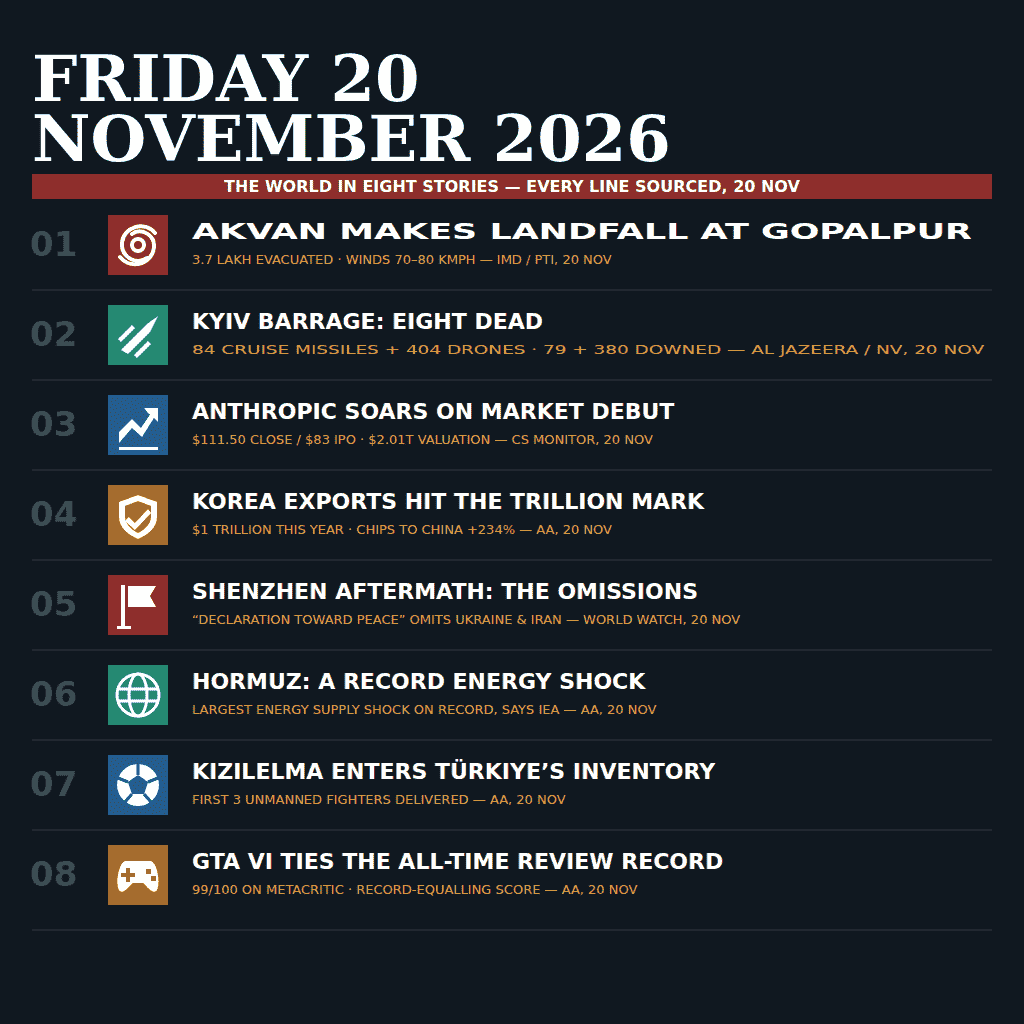
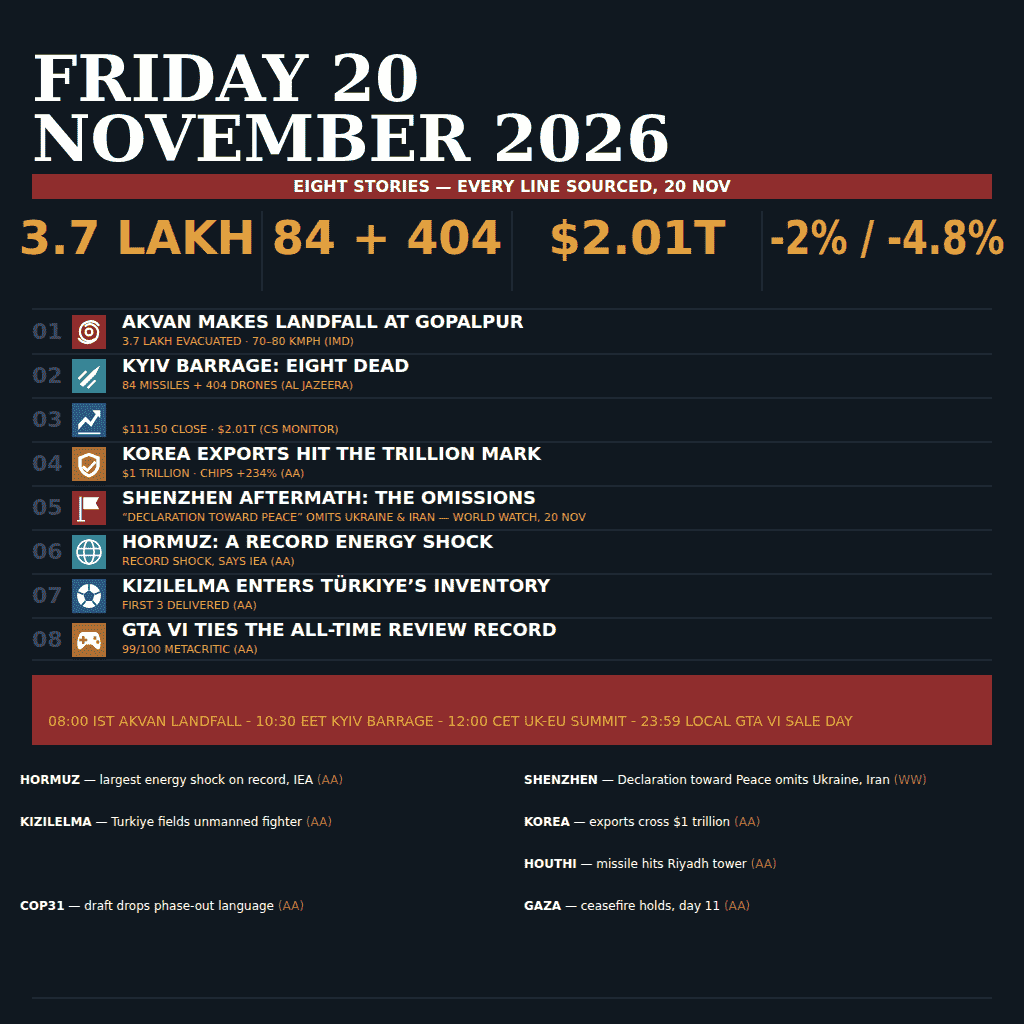
Breadth poster: stat row, timeline, briefs, 32.6KB

Changed region(s): [[0.0, 0.1562, 1.0, 0.9062], [0.6875, 0.5938, 0.7188, 0.625], [0.6562, 0.3125, 0.6875, 0.3438]]

diff --git a/poster.html b/poster.html
@@ -11,92 +11,127 @@
 <text x="32" y="161" style="font-family:Georgia,'Times New Roman',serif">NOVEMBER 2026</text>
 </g>
 <rect x="32" y="174" width="960" height="25" fill="#8f2d2d"/>
-<text x="512" y="192" text-anchor="middle" fill="#fff" font-size="16" font-weight="bold">THE WORLD IN EIGHT STORIES — EVERY LINE SOURCED, 20 NOV</text>
-<!-- 01 / 200–290 -->
-<text class="num" x="30" y="256">01</text>
+<text x="512" y="192" text-anchor="middle" fill="#fff" font-size="16" font-weight="bold">EIGHT STORIES — EVERY LINE SOURCED, 20 NOV</text>
+<rect y="200" width="1024" height="100" fill="#101820"/>
+<path d="M262 211V291M512 211V291M762 211V291" fill="none" stroke="#2a3844"/>
+<g fill="#e6a23c" font-size="46" font-weight="700" text-anchor="middle">
+<text x="137" y="254">3.7 LAKH</text>
+<text x="387" y="254">84 + 404</text>
+<text x="637" y="254">$2.01T</text>
+<text x="887" y="254" textLength="235" lengthAdjust="spacingAndGlyphs">-2% / -4.8%</text>
+</g>
+<g fill="#ffffff" font-size="12" text-anchor="middle">
+
+
+
+
+</g>
+<path class="rule" d="M32 309H992"/>
+<text x="32" y="339" fill="#3a4a56" font-size="22" font-weight="700">01</text>
+<g transform="translate(72 315) scale(.5666666667) translate(-108 -215)">
 <rect x="108" y="215" width="60" height="60" fill="#8f2d2d"/>
 <g fill="none" stroke="#fff" stroke-width="4" stroke-linecap="round">
 <path d="M155 233C145 220 123 227 122 243C121 256 135 266 147 258"/>
 <path d="M120 257C132 271 153 263 154 247C155 235 141 227 132 234"/>
 <circle cx="138" cy="245" r="6"/>
 </g>
-<text class="head" x="192" y="239" textLength="780" lengthAdjust="spacingAndGlyphs">AKVAN MAKES LANDFALL AT GOPALPUR</text>
-<text class="stat" x="192" y="264">3.7 LAKH EVACUATED · WINDS 70–80 KMPH — IMD / PTI, 20 NOV</text>
-<path class="rule" d="M32 290H992"/>
-<!-- 02 / 290–380 -->
-<text class="num" x="30" y="346">02</text>
+</g>
+<text x="122" y="328" fill="#ffffff" font-size="18" font-weight="700">AKVAN MAKES LANDFALL AT GOPALPUR</text>
+<text x="122" y="345" fill="#e6a23c" font-size="11">3.7 LAKH EVACUATED · 70–80 KMPH (IMD)</text>
+<path class="rule" d="M32 354H992"/>
+<text x="32" y="383" fill="#3a4a56" font-size="22" font-weight="700">02</text>
+<g transform="translate(72 359) scale(.5666666667) translate(-108 -305)">
 <rect x="108" y="305" width="60" height="60" fill="#1f8a70"/>
 <g fill="#fff">
 <path d="M121 350L147 324L158 316L150 332L128 354Z"/>
 <path d="M118 339L132 325L135 328L121 342Z"/>
 <path d="M134 355L148 341L151 344L137 358Z"/>
 </g>
-<text class="head" x="192" y="329">KYIV BARRAGE: EIGHT DEAD</text>
-<text class="stat" x="192" y="354" textLength="792" lengthAdjust="spacingAndGlyphs">84 CRUISE MISSILES + 404 DRONES · 79 + 380 DOWNED — AL JAZEERA / NV, 20 NOV</text>
-<path class="rule" d="M32 380H992"/>
-<!-- 03 / 380–470 -->
-<text class="num" x="30" y="436">03</text>
+</g>
+<text x="122" y="372" fill="#ffffff" font-size="18" font-weight="700">KYIV BARRAGE: EIGHT DEAD</text>
+<text x="122" y="389" fill="#e6a23c" font-size="11">84 MISSILES + 404 DRONES (AL JAZEERA)</text>
+<path class="rule" d="M32 398H992"/>
+<text x="32" y="427" fill="#3a4a56" font-size="22" font-weight="700">03</text>
+<g transform="translate(72 403) scale(.5666666667) translate(-108 -395)">
 <rect x="108" y="395" width="60" height="60" fill="#1f5c8b"/>
 <g fill="#fff">
 <path d="M119 443V432L132 419L141 428L153 410L157 413L142 437L132 428Z"/>
 <path d="M144 408H158V422L153 417L148 413Z"/>
 <rect x="119" y="447" width="39" height="3"/>
 </g>
-<text class="head" x="192" y="419">ANTHROPIC SOARS ON MARKET DEBUT</text>
-<text class="stat" x="192" y="444">$111.50 CLOSE / $83 IPO · $2.01T VALUATION — CS MONITOR, 20 NOV</text>
-<path class="rule" d="M32 470H992"/>
-<!-- 04 / 470–560 -->
-<text class="num" x="30" y="526">04</text>
+</g>
+
+<text x="122" y="433" fill="#e6a23c" font-size="11">$111.50 CLOSE · $2.01T (CS MONITOR)</text>
+<path class="rule" d="M32 442H992"/>
+<text x="32" y="471" fill="#3a4a56" font-size="22" font-weight="700">04</text>
+<g transform="translate(72 447) scale(.5666666667) translate(-108 -485)">
 <rect x="108" y="485" width="60" height="60" fill="#a66c22"/>
 <path fill="#fff" d="M138 495L157 502V517C157 528 147 535 138 539C129 535 119 528 119 517V502Z"/>
 <path fill="#a66c22" d="M138 501L151 506V517C151 524 144 530 138 533C132 530 125 524 125 517V506Z"/>
 <path fill="#fff" d="M129 517L135 523L148 509L151 513L135 530L125 521Z"/>
-<text class="head" x="192" y="509">KOREA EXPORTS HIT THE TRILLION MARK</text>
-<text class="stat" x="192" y="534">$1 TRILLION THIS YEAR · CHIPS TO CHINA +234% — AA, 20 NOV</text>
-<path class="rule" d="M32 560H992"/>
-<!-- 05 / 560–650 -->
-<text class="num" x="30" y="616">05</text>
+</g>
+<text x="122" y="460" fill="#ffffff" font-size="18" font-weight="700">KOREA EXPORTS HIT THE TRILLION MARK</text>
+<text x="122" y="477" fill="#e6a23c" font-size="11">$1 TRILLION · CHIPS +234% (AA)</text>
+<path class="rule" d="M32 486H992"/>
+<text x="32" y="515" fill="#3a4a56" font-size="22" font-weight="700">05</text>
+<g transform="translate(72 491) scale(.5666666667) translate(-108 -575)">
 <rect x="108" y="575" width="60" height="60" fill="#8f2d2d"/>
 <g fill="#fff">
 <rect x="121" y="585" width="4" height="41"/>
 <path d="M128 586H156L150 596L156 607H128Z"/>
 <rect x="117" y="626" width="14" height="3"/>
 </g>
-<text class="head" x="192" y="599">SHENZHEN AFTERMATH: THE OMISSIONS</text>
-<text class="stat" x="192" y="624">“DECLARATION TOWARD PEACE” OMITS UKRAINE &amp; IRAN — WORLD WATCH, 20 NOV</text>
-<path class="rule" d="M32 650H992"/>
-<!-- 06 / 650–740 -->
-<text class="num" x="30" y="706">06</text>
+</g>
+<text x="122" y="504" fill="#ffffff" font-size="18" font-weight="700">SHENZHEN AFTERMATH: THE OMISSIONS</text>
+<text x="122" y="521" fill="#e6a23c" font-size="11">“DECLARATION TOWARD PEACE” OMITS UKRAINE &amp; IRAN — WORLD WATCH, 20 NOV</text>
+<path class="rule" d="M32 530H992"/>
+<text x="32" y="559" fill="#3a4a56" font-size="22" font-weight="700">06</text>
+<g transform="translate(72 535) scale(.5666666667) translate(-108 -665)">
 <rect x="108" y="665" width="60" height="60" fill="#1f8a70"/>
 <g fill="none" stroke="#fff" stroke-width="3">
 <circle cx="138" cy="695" r="21"/>
 <ellipse cx="138" cy="695" rx="9" ry="21"/>
 <path d="M118 689H158M118 701H158"/>
 </g>
-<text class="head" x="192" y="689">HORMUZ: A RECORD ENERGY SHOCK</text>
-<text class="stat" x="192" y="714">LARGEST ENERGY SUPPLY SHOCK ON RECORD, SAYS IEA — AA, 20 NOV</text>
-<path class="rule" d="M32 740H992"/>
-<!-- 07 / 740–830 -->
-<text class="num" x="30" y="796">07</text>
+</g>
+<text x="122" y="548" fill="#ffffff" font-size="18" font-weight="700">HORMUZ: A RECORD ENERGY SHOCK</text>
+<text x="122" y="565" fill="#e6a23c" font-size="11">RECORD SHOCK, SAYS IEA (AA)</text>
+<path class="rule" d="M32 574H992"/>
+<text x="32" y="603" fill="#3a4a56" font-size="22" font-weight="700">07</text>
+<g transform="translate(72 579) scale(.5666666667) translate(-108 -755)">
 <rect x="108" y="755" width="60" height="60" fill="#1f5c8b"/>
 <circle cx="138" cy="785" r="21" fill="#fff"/>
 <path fill="#1f5c8b" d="M138 775L148 782L144 794H132L128 782Z"/>
 <path fill="none" stroke="#1f5c8b" stroke-width="3" d="M138 775V764M148 782L158 778M144 794L151 802M132 794L125 802M128 782L118 778"/>
-<text class="head" x="192" y="779">KIZILELMA ENTERS TÜRKIYE’S INVENTORY</text>
-<text class="stat" x="192" y="804">FIRST 3 UNMANNED FIGHTERS DELIVERED — AA, 20 NOV</text>
-<path class="rule" d="M32 830H992"/>
-<!-- 08 / 830–920 -->
-<text class="num" x="30" y="886">08</text>
+</g>
+<text x="122" y="592" fill="#ffffff" font-size="18" font-weight="700">KIZILELMA ENTERS TÜRKIYE’S INVENTORY</text>
+<text x="122" y="609" fill="#e6a23c" font-size="11">FIRST 3 DELIVERED (AA)</text>
+<path class="rule" d="M32 618H992"/>
+<text x="32" y="647" fill="#3a4a56" font-size="22" font-weight="700">08</text>
+<g transform="translate(72 623) scale(.5666666667) translate(-108 -845)">
 <rect x="108" y="845" width="60" height="60" fill="#a66c22"/>
 <path fill="#fff" d="M126 861H150C157 861 161 883 157 890C153 896 146 885 143 883H133C130 885 123 896 119 890C115 883 119 861 126 861Z"/>
 <path fill="#a66c22" d="M126 868H130V873H135V877H130V882H126V877H121V873H126Z"/>
 <path fill="#a66c22" d="M146 869H151V874H146ZM151 876H156V881H151Z"/>
-<text class="head" x="192" y="869">GTA VI TIES THE ALL-TIME REVIEW RECORD</text>
-<text class="stat" x="192" y="894">99/100 ON METACRITIC · RECORD-EQUALLING SCORE — AA, 20 NOV</text>
-<path class="rule" d="M32 930H992"/>
-<g fill="#fff" font-size="12" opacity="0.72">
-<text x="32" y="956" textLength="960" lengthAdjust="spacingAndGlyphs">SOURCES ON EVERY LINE - 20 NOVEMBER 2026 - EXCLUDED AS FIRST REPORTED 19 NOV: ICJ RULING, SHENZHEN SUMMIT, GTA VI LAUNCH MINUTE</text>
-<text x="32" y="984">MAKE.FUN NEWS-IMAGE - 8 STORIES / 6 CONTINENTS / 1 DAY</text>
+</g>
+<text x="122" y="636" fill="#ffffff" font-size="18" font-weight="700">GTA VI TIES THE ALL-TIME REVIEW RECORD</text>
+<text x="122" y="653" fill="#e6a23c" font-size="11">99/100 METACRITIC (AA)</text>
+<path class="rule" d="M32 660H992"/>
+<rect x="32" y="675" width="960" height="70" fill="#8f2d2d"/>
+<text x="48" y="726" fill="#e6a23c" font-size="14">08:00 IST AKVAN LANDFALL - 10:30 EET KYIV BARRAGE - 12:00 CET UK-EU SUMMIT - 23:59 LOCAL GTA VI SALE DAY</text>
+
+<g fill="#ffffff" font-size="12" font-weight="400" data-cell-width="492" data-cell-height="42">
+<g transform="translate(20 770)"><text x="0" y="14"><tspan font-weight="700">HORMUZ</tspan><tspan> — largest energy shock on record, IEA </tspan><tspan fill="#a66c22">(AA)</tspan></text></g>
+<g transform="translate(524 770)"><text x="0" y="14"><tspan font-weight="700">SHENZHEN</tspan><tspan> — Declaration toward Peace omits Ukraine, Iran </tspan><tspan fill="#a66c22">(WW)</tspan></text></g>
+<g transform="translate(20 812)"><text x="0" y="14"><tspan font-weight="700">KIZILELMA</tspan><tspan> — Turkiye fields unmanned fighter </tspan><tspan fill="#a66c22">(AA)</tspan></text></g>
+<g transform="translate(524 812)"><text x="0" y="14"><tspan font-weight="700">KOREA</tspan><tspan> — exports cross $1 trillion </tspan><tspan fill="#a66c22">(AA)</tspan></text></g>
+<g transform="translate(524 854)"><text x="0" y="14"><tspan font-weight="700">HOUTHI</tspan><tspan> — missile hits Riyadh tower </tspan><tspan fill="#a66c22">(AA)</tspan></text></g>
+<g transform="translate(20 896)"><text x="0" y="14"><tspan font-weight="700">COP31</tspan><tspan> — draft drops phase-out language </tspan><tspan fill="#a66c22">(AA)</tspan></text></g>
+<g transform="translate(524 896)"><text x="0" y="14"><tspan font-weight="700">GAZA</tspan><tspan> — ceasefire holds, day 11 </tspan><tspan fill="#a66c22">(AA)</tspan></text></g>
+</g>
+<path class="rule" d="M32 998H992"/>
+<g fill="#ffffff" font-size="10">
+
 </g>
 </svg>
 </body>
